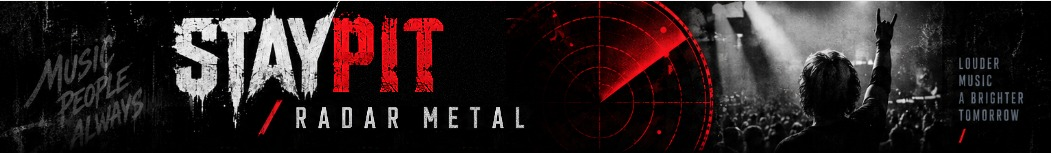
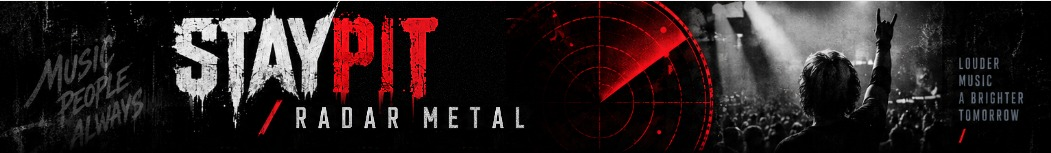
Bannière : coulures au hasard sous PIT, T dans le style de celui de STAY
Claude-Session: https://claude.ai/code/session_01JEY3z9piJCXFyAaQnvY5d2

Changed region(s): [[0.3045, 0.1046, 0.4263, 0.7059]]

diff --git a/public/index.html b/public/index.html
@@ -529,10 +529,10 @@ body.sl-radio-on .wrap{padding-bottom:150px}
 .profile-manage-lbl{font-size:12px;color:#8a939c;font-weight:700}
 .profile-del{margin-left:auto;border:1px solid #4a1d21;border-radius:999px;background:#120809;color:#ff8a92;font:700 12px Inter,Arial,sans-serif;padding:8px 12px;cursor:pointer;min-height:0}
 </style></head><body>
-<div id="authGate" class="auth-gate"><img class="auth-hero" src="/staypit-banner.jpg?v=6" alt="STAYPIT Radar Metal"><div class="auth-box"><div class="auth-sub">Votre espace personnel</div><h1 id="authTitle" class="auth-title">Se connecter</h1><form id="authForm" class="auth-form"><input id="authUser" name="username" type="text" autocomplete="username" placeholder="Nom d'utilisateur ou e-mail" minlength="3" maxlength="32" required><input id="authEmail" name="email" type="email" autocomplete="email" placeholder="Adresse e-mail" required><input id="authPass" name="password" type="password" autocomplete="current-password" placeholder="Mot de passe" minlength="6" required><div id="authError" class="auth-error"></div><button id="authSubmit" class="btn" type="submit">SE CONNECTER</button></form><div id="authForgot" class="auth-forgot"><button type="button" onclick="showForgotPassword()">Mot de passe ou nom d’utilisateur oublié ?</button></div><div id="forgotBox" class="auth-extra"><div class="auth-forgot-help">Indiquez l’adresse e-mail de votre compte : vous recevrez votre <strong>nom d’utilisateur</strong> et un lien pour choisir un <strong>nouveau mot de passe</strong>.</div><input id="forgotEmail" type="email" autocomplete="email" placeholder="Votre adresse e-mail"><button id="forgotSubmit" class="btn" type="button" onclick="requestPasswordReset()">ENVOYER LE LIEN</button><div id="forgotMsg" class="auth-email-note"></div><button type="button" class="mini" onclick="hideForgotPassword()">Retour à la connexion</button></div><div id="authNote" class="auth-note">Chaque compte possède ses propres groupes, photos, descriptions, actualités et concerts associés.</div><div class="auth-switch"><span id="authSwitchText">Pas encore de compte ?</span> <button id="authSwitch" type="button">Créer un compte</button></div><a class="auth-privacy" href="/confidentialite.html" target="_blank" rel="noopener">Confidentialité</a></div></div>
-<div id="resetGate" class="auth-gate hidden"><img class="auth-hero" src="/staypit-banner.jpg?v=6" alt="STAYPIT Radar Metal"><div class="auth-box"><div class="auth-sub">Récupération du compte</div><h1 class="auth-title">Nouveau mot de passe</h1><form id="resetForm" class="auth-form"><input id="resetPass" type="password" autocomplete="new-password" placeholder="Nouveau mot de passe" minlength="6" required><input id="resetPass2" type="password" autocomplete="new-password" placeholder="Confirmer le mot de passe" minlength="6" required><div id="resetError" class="auth-error"></div><button class="btn" type="submit">ENREGISTRER LE NOUVEAU MOT DE PASSE</button></form><div class="auth-note">Le lien de récupération est temporaire et utilisable une seule fois.</div></div></div>
+<div id="authGate" class="auth-gate"><img class="auth-hero" src="/staypit-banner.jpg?v=7" alt="STAYPIT Radar Metal"><div class="auth-box"><div class="auth-sub">Votre espace personnel</div><h1 id="authTitle" class="auth-title">Se connecter</h1><form id="authForm" class="auth-form"><input id="authUser" name="username" type="text" autocomplete="username" placeholder="Nom d'utilisateur ou e-mail" minlength="3" maxlength="32" required><input id="authEmail" name="email" type="email" autocomplete="email" placeholder="Adresse e-mail" required><input id="authPass" name="password" type="password" autocomplete="current-password" placeholder="Mot de passe" minlength="6" required><div id="authError" class="auth-error"></div><button id="authSubmit" class="btn" type="submit">SE CONNECTER</button></form><div id="authForgot" class="auth-forgot"><button type="button" onclick="showForgotPassword()">Mot de passe ou nom d’utilisateur oublié ?</button></div><div id="forgotBox" class="auth-extra"><div class="auth-forgot-help">Indiquez l’adresse e-mail de votre compte : vous recevrez votre <strong>nom d’utilisateur</strong> et un lien pour choisir un <strong>nouveau mot de passe</strong>.</div><input id="forgotEmail" type="email" autocomplete="email" placeholder="Votre adresse e-mail"><button id="forgotSubmit" class="btn" type="button" onclick="requestPasswordReset()">ENVOYER LE LIEN</button><div id="forgotMsg" class="auth-email-note"></div><button type="button" class="mini" onclick="hideForgotPassword()">Retour à la connexion</button></div><div id="authNote" class="auth-note">Chaque compte possède ses propres groupes, photos, descriptions, actualités et concerts associés.</div><div class="auth-switch"><span id="authSwitchText">Pas encore de compte ?</span> <button id="authSwitch" type="button">Créer un compte</button></div><a class="auth-privacy" href="/confidentialite.html" target="_blank" rel="noopener">Confidentialité</a></div></div>
+<div id="resetGate" class="auth-gate hidden"><img class="auth-hero" src="/staypit-banner.jpg?v=7" alt="STAYPIT Radar Metal"><div class="auth-box"><div class="auth-sub">Récupération du compte</div><h1 class="auth-title">Nouveau mot de passe</h1><form id="resetForm" class="auth-form"><input id="resetPass" type="password" autocomplete="new-password" placeholder="Nouveau mot de passe" minlength="6" required><input id="resetPass2" type="password" autocomplete="new-password" placeholder="Confirmer le mot de passe" minlength="6" required><div id="resetError" class="auth-error"></div><button class="btn" type="submit">ENREGISTRER LE NOUVEAU MOT DE PASSE</button></form><div class="auth-note">Le lien de récupération est temporaire et utilisable une seule fois.</div></div></div>
 <div class="sticky-shell">
-<header class="hero"><img class="hero-img" id="heroImg" src="/staypit-banner.jpg?v=6" alt="STAYPIT Radar Metal"><div class="radar-sweep" id="radarSweep" aria-hidden="true"><div class="radar-dim"></div><div class="radar-beam"></div><span class="radar-blip b1"></span><span class="radar-blip b2"></span><span class="radar-blip b3"></span></div></header>
+<header class="hero"><img class="hero-img" id="heroImg" src="/staypit-banner.jpg?v=7" alt="STAYPIT Radar Metal"><div class="radar-sweep" id="radarSweep" aria-hidden="true"><div class="radar-dim"></div><div class="radar-beam"></div><span class="radar-blip b1"></span><span class="radar-blip b2"></span><span class="radar-blip b3"></span></div></header>
 <div class="nav-wrap"><div class="wrap nav-container"><nav class="nav"><button class="active" data-s="radar"><span class="nav-icon"><i data-lucide="radar" aria-hidden="true"></i><b class="sl-nav-badge" data-badge="radar" hidden></b></span><span>Actus</span></button><button data-s="live"><span class="nav-icon"><i data-lucide="ticket" aria-hidden="true"></i><b class="sl-nav-badge" data-badge="live" hidden></b></span><span>Concerts</span></button><button data-s="clips"><span class="nav-icon"><i data-lucide="headphones" aria-hidden="true"></i></span><span>Écouter</span></button><button data-s="styles"><span class="nav-icon"><svg class="sl-explorer" viewBox="0 0 24 24" fill="none" stroke="currentColor" stroke-width="1.5" stroke-linecap="round" stroke-linejoin="round" aria-hidden="true"><path d="M17.81 3.75 19.67 1.5 22.0 2.29 18.71 4.56Z"/><path d="M11.37 10.59 9.7 7.12 6.71 9.0 7.75 11.47 2.0 15.44 7.38 17.45 9.36 22.5 12.01 16.17 14.26 15.37 12.58 11.67Z"/><path d="M17.93 3.85 11.64 10.83"/><path d="M18.59 4.45 12.31 11.43"/><path d="M8.2 13.39 10.12 15.12"/></svg></span><span>Groupes</span></button><button data-s="community"><span class="nav-icon"><i data-lucide="users-round" aria-hidden="true"></i><b class="sl-nav-badge" data-badge="community" hidden></b></span><span>Communauté</span></button></nav></div></div>
 </div>
 <div class="wrap top-controls">
@@ -2080,7 +2080,7 @@ if('serviceWorker' in navigator)window.addEventListener('load',()=>navigator.ser
  };
  const nav=on=>`<div class="tr-nav">${[['radar','Actus'],['cal','Concerts'],['head','Écouter'],['guitar','Groupes'],['users','Communauté']].map(([i,t])=>`<span class="${t===on?'on':''}">${ICON[i]}<em>${t}</em></span>`).join('')}</div>`;
  const SLIDES=[
-  {t:'Bienvenue sur STAYPIT',p:'Ton radar métal personnel : les <b>actus</b> et les <b>sorties</b> de tes groupes, leurs <b>concerts</b> avec les <b>billets</b>, ton agenda et tes <b>setlists</b>, les <b>clips</b> et la <b>radio</b> métal, au même endroit.',v:`<div class="tr-screen tr-welcome"><div class="tr-ban"><img src="/staypit-banner.jpg?v=6" alt=""><div class="tr-sweep"></div></div><div class="tr-hint">Pour l’instant, aucun groupe n’est enregistré.</div></div>`},
+  {t:'Bienvenue sur STAYPIT',p:'Ton radar métal personnel : les <b>actus</b> et les <b>sorties</b> de tes groupes, leurs <b>concerts</b> avec les <b>billets</b>, ton agenda et tes <b>setlists</b>, les <b>clips</b> et la <b>radio</b> métal, au même endroit.',v:`<div class="tr-screen tr-welcome"><div class="tr-ban"><img src="/staypit-banner.jpg?v=7" alt=""><div class="tr-sweep"></div></div><div class="tr-hint">Pour l’instant, aucun groupe n’est enregistré.</div></div>`},
   {t:'1 · Ajoute tes groupes',p:'Va dans <b>Groupes</b>, tape le nom d’un groupe puis touche <b>+ Ajouter</b>. C’est grâce à tes groupes que STAYPIT trouve les actus, les albums, les concerts et les clips.',v:`<div class="tr-screen"><div class="tr-title">GROUPES</div><div class="tr-input"><span class="tr-typing">Gojira</span><i class="tr-caret"></i></div><div class="tr-suggest"><span class="tr-av"></span><b>Gojira</b><small>Death Metal</small></div><div class="tr-btn tr-press">+ AJOUTER</div>${nav('Groupes')}<div class="tr-finger tr-f-add"></div></div>`},
   {t:'2 · Actus et sorties',p:'<b>Actualités</b> : les articles sur tes groupes des 6 derniers mois. <b>Sorties</b> : leurs albums récents et à venir. Un <b>nouvel album</b> ? Une pastille rouge s’allume sur <b>Actus</b>.',v:`<div class="tr-screen"><div class="tr-title">ACTUS</div><div class="tr-seg tr-seg2 tr-seg-static"><span>Actualités</span><span class="on">Sorties</span></div><div class="tr-new">● NOUVEAU</div>${[['GOJIRA','Album · 12 mars 2027 · à venir'],['LANDMVRKS','The Darkest Place · 2025']].map(([b,x],i)=>`<div class="tr-card" style="animation-delay:${i*.35}s"><span class="tr-cover-sm"></span><div><em>${b}</em><b>${x}</b></div></div>`).join('')}${nav('Actus')}</div>`},
   {t:'3 · Les concerts',p:'<b>Mes groupes</b> : leurs concerts en France, premières parties comprises. <b>Autour de moi</b> : tous les concerts metal autour de ta <b>position</b> ou d’une <b>ville</b>, dans le rayon choisi. Un nouveau concert d’un de tes groupes ? Pastille rouge sur <b>Concerts</b>.',v:`<div class="tr-screen"><div class="tr-title">CONCERTS</div><div class="tr-seg"><span>Mes groupes</span><span>Autour de moi</span><span>Agenda</span><i class="tr-seg-on"></i></div><div class="tr-chips"><span>10 km</span><span>20 km</span><span class="on">50 km</span><span>100 km</span></div><div class="tr-ev"><div class="tr-date"><b>18</b>OCT</div><div><em>GOJIRA <i class="tr-mine">Ton groupe</i></em><b>Le Zénith · Nantes · 38 km</b></div></div><div class="tr-ev" style="animation-delay:.4s"><div class="tr-date"><b>09</b>NOV</div><div><em>ARCH ENEMY</em><b>Le Trabendo · Paris · 21 km</b></div></div>${nav('Concerts')}</div>`},

diff --git a/public/sw.js b/public/sw.js
@@ -2,8 +2,8 @@
 // Pages: always from the network (latest version); a clear offline page otherwise.
 // Images / icons: served from the cache, refreshed in the background.
 // The API and other sites are never cached here.
-const CACHE='staypit-v10';
-const SHELL=['/manifest.webmanifest','/icon-192.png','/icon-512.png','/apple-touch-icon.png','/favicon-32.png','/staypit-banner.jpg?v=6'];
+const CACHE='staypit-v11';
+const SHELL=['/manifest.webmanifest','/icon-192.png','/icon-512.png','/apple-touch-icon.png','/favicon-32.png','/staypit-banner.jpg?v=7'];
 const OFFLINE=`<!doctype html><html lang="fr"><head><meta charset="utf-8"><meta name="viewport" content="width=device-width,initial-scale=1"><title>STAYPIT – hors ligne</title><style>body{margin:0;min-height:100vh;display:grid;place-items:center;background:#060709;color:#e8ebee;font:16px/1.5 Inter,Arial,sans-serif;text-align:center;padding:24px}img{width:96px;height:96px;border-radius:22px}h1{font-size:20px;margin:18px 0 6px}p{color:#8a939c;margin:0 0 18px}button{border:0;border-radius:999px;background:#e50914;color:#fff;font:700 15px Inter,Arial,sans-serif;padding:12px 22px}</style></head><body><div><img src="/icon-192.png" alt=""><h1>Pas de connexion</h1><p>STAYPIT a besoin d’Internet pour trouver les actus et les concerts.<br>Vérifie ta connexion puis réessaie.</p><button onclick="location.reload()">Réessayer</button></div></body></html>`;
 
 self.addEventListener('install',e=>{

diff --git a/docs/notes/V7.33.1-NOTES.md b/docs/notes/V7.33.1-NOTES.md
@@ -1,6 +1,7 @@
 # V7.33.1 — Lettres rouges plus nettes
 
 - Bannière et icônes : les lettres rouges « PIT » sont plus nettes (contours durcis et légère accentuation). Le graphisme d’origine est gardé.
-- Cache du service worker : `staypit-v10`.
+- Cache du service worker : `staypit-v11`.
 - Icône : lettres recentrées verticalement (même marge en haut et en bas).
 - Bannière : « / RADAR METAL » descendu pour être centré sur la barre rouge.
+- Bannière : coulures de peinture au hasard sous PIT, et T de PIT redessiné dans le style du T de STAY.
